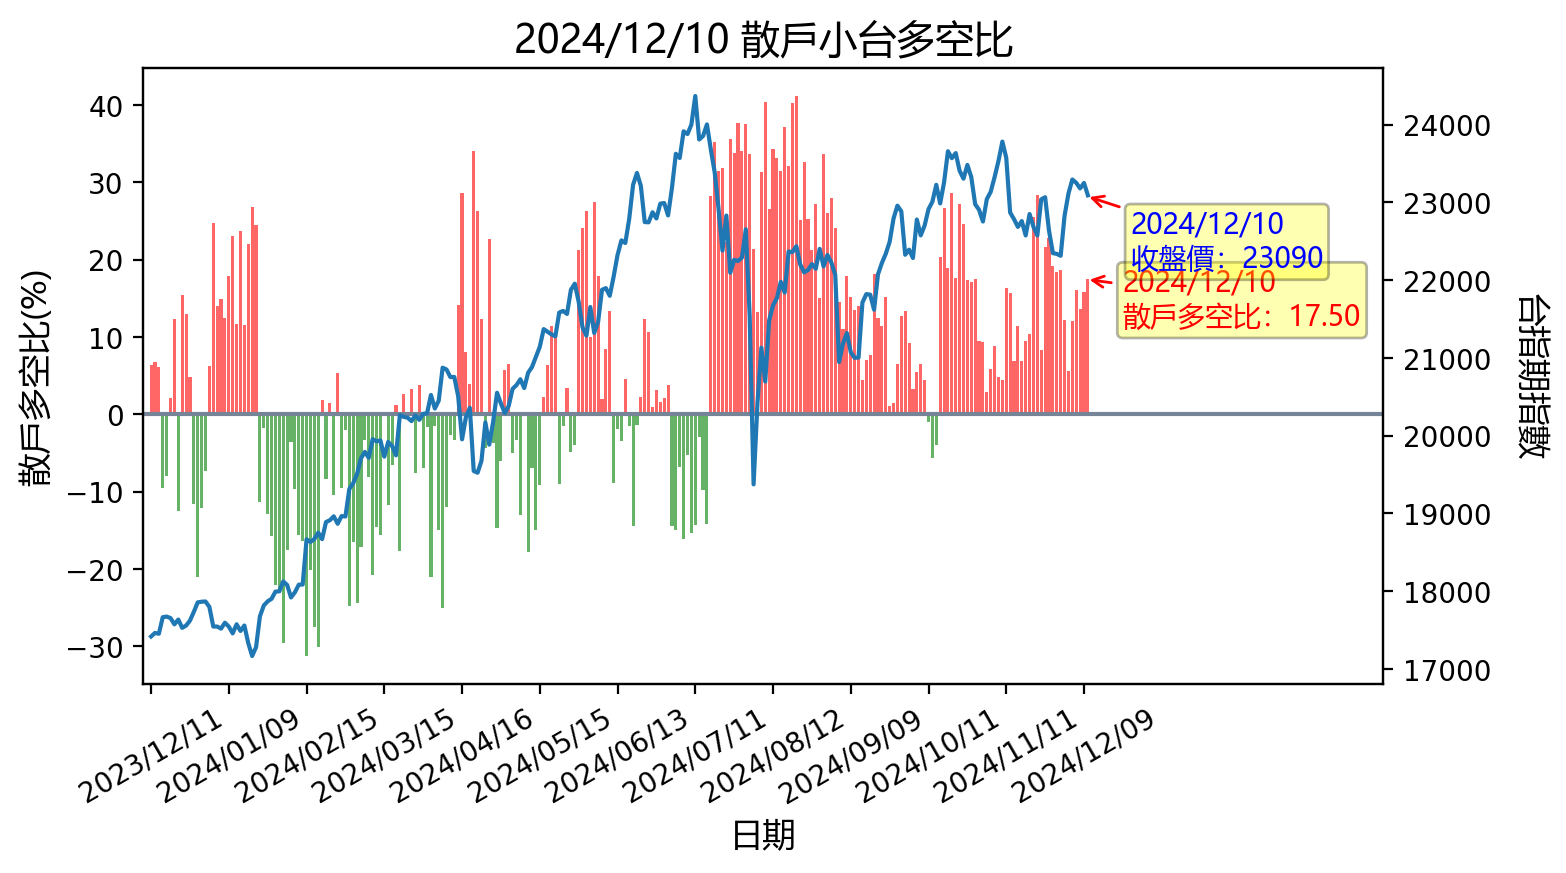
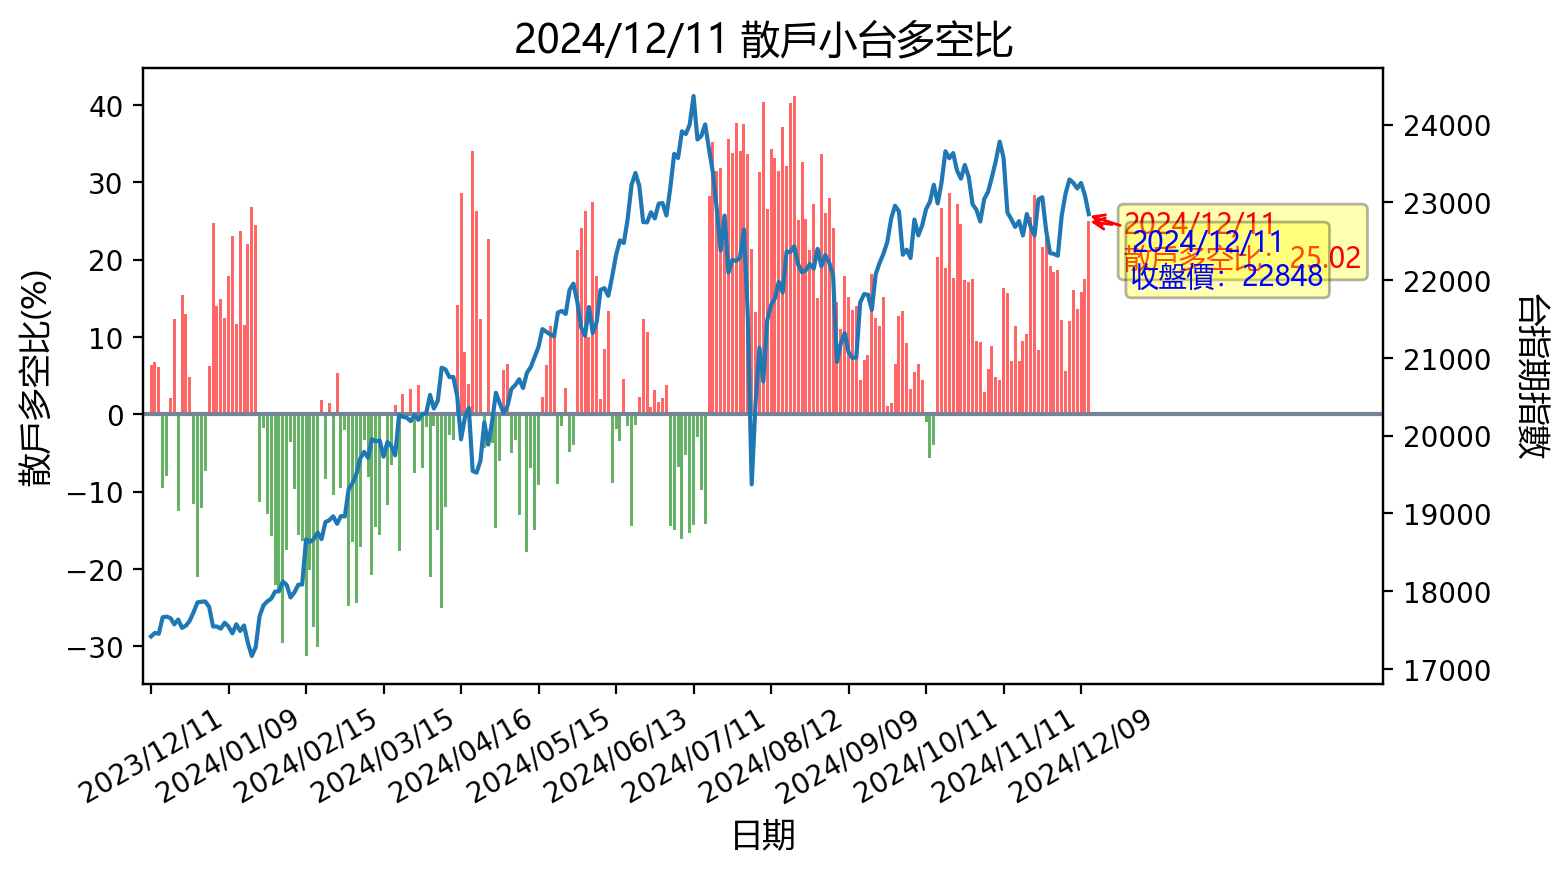
更新時間: Wed Dec 11 16:37:38 CST 2024

diff --git a/README.md b/README.md
@@ -1,12 +1,12 @@
-## 20241210 台指期「預估換倉成本」
+## 20241211 台指期「預估換倉成本」
 ![](images/txfcost.png)
 
-## 20241210 台指期「散戶小台多空比」
+## 20241211 台指期「散戶小台多空比」
 ![](images/bbiri.png)
 
-## 20241210 台指選擇權「Put/Call Ratios」
+## 20241211 台指選擇權「Put/Call Ratios」
 ![](images/pcratio.png)
 
-## 20241210 台指期「大額交易人」
+## 20241211 台指期「大額交易人」
 ![](images/blocktrade.png)
 
